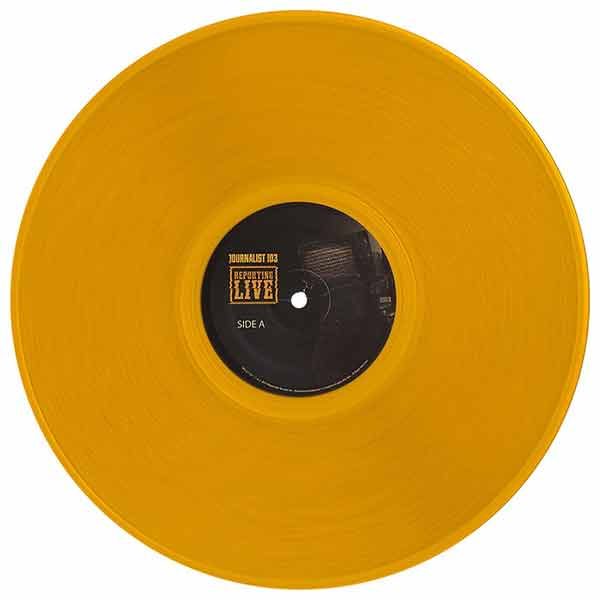
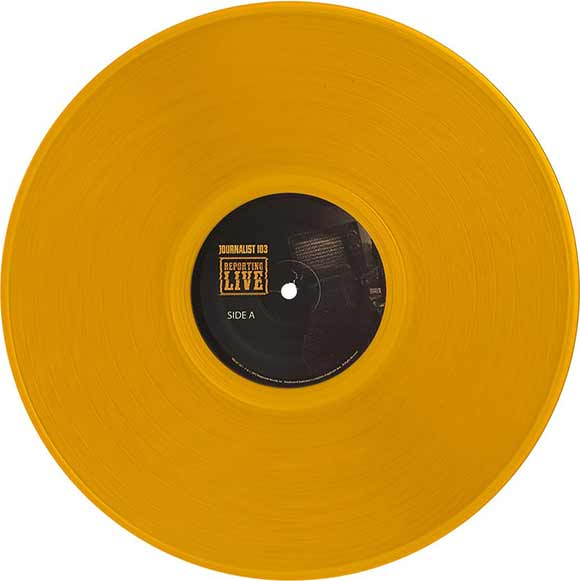
Add in new LP image

diff --git a/stylesheets/plylst.min.css b/stylesheets/plylst.min.css
@@ -1,1 +1,1 @@
-/*! normalize.css v2.1.3 | MIT License | git.io/normalize */article,aside,details,figcaption,figure,footer,header,hgroup,main,nav,section,summary{display:block}audio,canvas,video{display:inline-block}audio:not([controls]){display:none;height:0}[hidden],template{display:none}html{font-family:sans-serif;-ms-text-size-adjust:100%;-webkit-text-size-adjust:100%}body{margin:0}a{background:transparent}a:focus{outline:thin dotted}a:active,a:hover{outline:0}h1{font-size:2em;margin:.67em 0}abbr[title]{border-bottom:1px dotted}b,strong{font-weight:bold}dfn{font-style:italic}hr{-moz-box-sizing:content-box;box-sizing:content-box;height:0}mark{background:#ff0;color:#000}code,kbd,pre,samp{font-family:monospace,serif;font-size:1em}pre{white-space:pre-wrap}q{quotes:"\201C" "\201D" "\2018" "\2019"}small{font-size:80%}sub,sup{font-size:75%;line-height:0;position:relative;vertical-align:baseline}sup{top:-0.5em}sub{bottom:-0.25em}img{border:0}svg:not(:root){overflow:hidden}figure{margin:0}fieldset{border:1px solid silver;margin:0 2px;padding:.35em .625em .75em}legend{border:0;padding:0}button,input,select,textarea{font-family:inherit;font-size:100%;margin:0}button,input{line-height:normal}button,select{text-transform:none}button,html input[type="button"],input[type="reset"],input[type="submit"]{-webkit-appearance:button;cursor:pointer}button[disabled],html input[disabled]{cursor:default}input[type="checkbox"],input[type="radio"]{box-sizing:border-box;padding:0}input[type="search"]{-webkit-appearance:textfield;-moz-box-sizing:content-box;-webkit-box-sizing:content-box;box-sizing:content-box}input[type="search"]::-webkit-search-cancel-button,input[type="search"]::-webkit-search-decoration{-webkit-appearance:none}button::-moz-focus-inner,input::-moz-focus-inner{border:0;padding:0}textarea{overflow:auto;vertical-align:top}table{border-collapse:collapse;border-spacing:0}*{-webkit-box-sizing:border-box;-moz-box-sizing:border-box;box-sizing:border-box}.cf:before,.cf:after{content:" ";display:table}.cf:after,.clr{clear:both}html,body{color:#949d99;font:normal 100%/1.5 'proxima-nova-regular',sans-serif;height:auto;min-height:100%;width:100%}strong{font-family:'proxima-nova-semi',sans-serif;font-weight:normal}h1,h2,h3,p{font-weight:normal;margin:0 0 15px}h1,h2{line-height:1.2}strong{color:#040407}@font-face{font-family:'proxima-nova-semi';src:url("https://assets.tradesy.com/css/fonts/proxima-nova/semi/webfont.eot");src:url("https://assets.tradesy.com/css/fonts/proxima-nova/semi/webfont.eot?#iefix") format("embedded-opentype"),url("https://assets.tradesy.com/css/fonts/proxima-nova/semi/webfont.woff2") format("woff2"),url("https://assets.tradesy.com/css/fonts/proxima-nova/semi/webfont.woff") format("woff"),url("https://assets.tradesy.com/css/fonts/proxima-nova/semi/webfont.ttf") format("truetype"),url("https://assets.tradesy.com/css/fonts/proxima-nova/semi/webfont.svg#proxima-nova-semi") format("svg");font-weight:normal;font-style:normal}@font-face{font-family:'proxima-nova-regular';src:url("https://assets.tradesy.com/css/fonts/proxima-nova/regular/webfont.eot");src:url("https://assets.tradesy.com/css/fonts/proxima-nova/regular/webfont.eot?#iefix") format("embedded-opentype"),url("/css/fonts/proxima-nova/regular/webfont.woff2") format("woff2"),url("https://assets.tradesy.com/css/fonts/proxima-nova/regular/webfont.woff") format("woff"),url("https://assets.tradesy.com/css/fonts/proxima-nova/regular/webfont.ttf") format("truetype"),url("https://assets.tradesy.com/css/fonts/proxima-nova/regular/webfont.svg#proxima-nova-regular") format("svg");font-weight:normal;font-style:normal}header{background:#040407 url(../images/pattern.jpg) repeat-x;margin-bottom:2em;padding:2em;text-align:center}header img{display:block;margin:auto auto 1em;max-width:50px}h1{color:#fff;letter-spacing:2.5px;line-height:1;margin:0;text-transform:uppercase}.playlists{margin:1em auto 0;max-width:1100px;padding:0 2em 2em;text-align:center}.playlists span{color:#ee7873}.playlist{display:inline-block;padding:1em;position:relative;width:275px;margin-left:auto;margin-right:auto}.playlist>div,.playlist a{box-shadow:0 0 0 3px #040407;display:table;height:250px;width:100%}.playlist a{border:0;box-shadow:none;color:#040407;display:table-cell;overflow:hidden;padding:2em;position:relative;text-align:center;text-decoration:none;vertical-align:middle;z-index:3}.playlist:after{content:"";background:rgba(0,0,0,0.125);border-radius:100%;display:block;height:3px;margin:-.825em 7% 0;position:absolute;top:100%;left:0;width:86%;z-index:2}.playlist:before{content:"";background:url(../images/lp.png) no-repeat;background-size:contain;display:block;height:250px;position:absolute;bottom:12px;right:-5px;transition:right .15s ease-in-out;width:250px;z-index:1}.playlist h2{display:inline-block;line-height:1;margin:0;position:relative}.playlist a *{position:relative;z-index:2}.playlist a img{position:absolute;top:0;left:0;min-height:300px;z-index:3}.playlist p{color:#999;margin:1em 0 0}.playlist small{color:#ccc;position:absolute;bottom:1.5em;right:1.5em}.playlist:hover img{display:none}.playlist:hover{z-index:5}.playlist:hover a,.playlist.done a{background:#040407;color:#ee7873;transform:scale(1.1)}.playlist:hover:before{transform:scale(1.1);right:-40px}.playlist.done{opacity:0}.playlist .no-b{box-shadow:none}.playlist:active a{transform:scale(0.95)}.playlist:active:after,.playlist:active:before{display:none}.playlist:active>div{box-shadow:none}.playlist:hover h2:after{display:none}.playlist:hover p,.playlist:hover small,.playlist:hover strong{color:white}@media screen and (min-width:75em){.playlists{max-width:1200px;padding:0 0 2em}}@media screen and (max-width:20em){.playlist{width:100%}}
+/*! normalize.css v2.1.3 | MIT License | git.io/normalize */article,aside,details,figcaption,figure,footer,header,hgroup,main,nav,section,summary{display:block}audio,canvas,video{display:inline-block}audio:not([controls]){display:none;height:0}[hidden],template{display:none}html{font-family:sans-serif;-ms-text-size-adjust:100%;-webkit-text-size-adjust:100%}body{margin:0}a{background:transparent}a:focus{outline:thin dotted}a:active,a:hover{outline:0}h1{font-size:2em;margin:.67em 0}abbr[title]{border-bottom:1px dotted}b,strong{font-weight:bold}dfn{font-style:italic}hr{-moz-box-sizing:content-box;box-sizing:content-box;height:0}mark{background:#ff0;color:#000}code,kbd,pre,samp{font-family:monospace,serif;font-size:1em}pre{white-space:pre-wrap}q{quotes:"\201C" "\201D" "\2018" "\2019"}small{font-size:80%}sub,sup{font-size:75%;line-height:0;position:relative;vertical-align:baseline}sup{top:-0.5em}sub{bottom:-0.25em}img{border:0}svg:not(:root){overflow:hidden}figure{margin:0}fieldset{border:1px solid silver;margin:0 2px;padding:.35em .625em .75em}legend{border:0;padding:0}button,input,select,textarea{font-family:inherit;font-size:100%;margin:0}button,input{line-height:normal}button,select{text-transform:none}button,html input[type="button"],input[type="reset"],input[type="submit"]{-webkit-appearance:button;cursor:pointer}button[disabled],html input[disabled]{cursor:default}input[type="checkbox"],input[type="radio"]{box-sizing:border-box;padding:0}input[type="search"]{-webkit-appearance:textfield;-moz-box-sizing:content-box;-webkit-box-sizing:content-box;box-sizing:content-box}input[type="search"]::-webkit-search-cancel-button,input[type="search"]::-webkit-search-decoration{-webkit-appearance:none}button::-moz-focus-inner,input::-moz-focus-inner{border:0;padding:0}textarea{overflow:auto;vertical-align:top}table{border-collapse:collapse;border-spacing:0}*{-webkit-box-sizing:border-box;-moz-box-sizing:border-box;box-sizing:border-box}.cf:before,.cf:after{content:" ";display:table}.cf:after,.clr{clear:both}html,body{color:#949d99;font:normal 100%/1.5 'proxima-nova-regular',sans-serif;height:auto;min-height:100%;width:100%}strong{font-family:'proxima-nova-semi',sans-serif;font-weight:normal}h1,h2,h3,p{font-weight:normal;margin:0 0 15px}h1,h2{line-height:1.2}strong{color:#040407}@font-face{font-family:'proxima-nova-semi';src:url("https://assets.tradesy.com/css/fonts/proxima-nova/semi/webfont.eot");src:url("https://assets.tradesy.com/css/fonts/proxima-nova/semi/webfont.eot?#iefix") format("embedded-opentype"),url("https://assets.tradesy.com/css/fonts/proxima-nova/semi/webfont.woff2") format("woff2"),url("https://assets.tradesy.com/css/fonts/proxima-nova/semi/webfont.woff") format("woff"),url("https://assets.tradesy.com/css/fonts/proxima-nova/semi/webfont.ttf") format("truetype"),url("https://assets.tradesy.com/css/fonts/proxima-nova/semi/webfont.svg#proxima-nova-semi") format("svg");font-weight:normal;font-style:normal}@font-face{font-family:'proxima-nova-regular';src:url("https://assets.tradesy.com/css/fonts/proxima-nova/regular/webfont.eot");src:url("https://assets.tradesy.com/css/fonts/proxima-nova/regular/webfont.eot?#iefix") format("embedded-opentype"),url("/css/fonts/proxima-nova/regular/webfont.woff2") format("woff2"),url("https://assets.tradesy.com/css/fonts/proxima-nova/regular/webfont.woff") format("woff"),url("https://assets.tradesy.com/css/fonts/proxima-nova/regular/webfont.ttf") format("truetype"),url("https://assets.tradesy.com/css/fonts/proxima-nova/regular/webfont.svg#proxima-nova-regular") format("svg");font-weight:normal;font-style:normal}header{background:#040407 url(../images/pattern.jpg) repeat-x;margin-bottom:2em;padding:2em;text-align:center}header img{display:block;margin:auto auto 1em;max-width:50px}h1{color:#fff;letter-spacing:2.5px;line-height:1;margin:0;text-transform:uppercase}.playlists{margin:1em auto 0;max-width:1100px;padding:0 2em 2em;text-align:center}.playlists span{color:#ee7873}.playlist{display:inline-block;padding:1em;position:relative;width:275px;margin-left:auto;margin-right:auto}.playlist>div,.playlist a{box-shadow:0 0 0 3px #040407;display:table;height:250px;width:100%}.playlist a{border:0;box-shadow:none;color:#040407;display:table-cell;overflow:hidden;padding:2em;position:relative;text-align:center;text-decoration:none;vertical-align:middle;z-index:3}.playlist:after{content:"";background:rgba(0,0,0,0.125);border-radius:100%;display:block;height:3px;margin:-.825em 7% 0;position:absolute;top:100%;left:0;width:86%;z-index:2}.playlist:before{content:"";background:url(../images/lp.jpg) no-repeat;background-size:contain;border-radius:100%;display:block;height:230px;overflow:hidden;position:absolute;bottom:20px;right:-5px;transition:right .15s ease-in-out;width:230px;z-index:1}.playlist h2{display:inline-block;line-height:1;margin:0;position:relative}.playlist a *{position:relative;z-index:2}.playlist a img{position:absolute;top:0;left:0;min-height:300px;z-index:3}.playlist p{color:#999;margin:1em 0 0}.playlist small{color:#ccc;position:absolute;bottom:1.5em;right:1.5em}.playlist:hover img{display:none}.playlist:hover{z-index:5}.playlist:hover a,.playlist.done a{background:#040407;color:#ee7873;transform:scale(1.1)}.playlist:hover:before{transform:scale(1.1);right:-40px}.playlist.done{opacity:0}.playlist .no-b{box-shadow:none}.playlist:active a{transform:scale(0.95)}.playlist:active:after,.playlist:active:before{display:none}.playlist:active>div{box-shadow:none}.playlist:hover h2:after{display:none}.playlist:hover p,.playlist:hover small,.playlist:hover strong{color:white}@media screen and (min-width:75em){header{padding:4em 0}.playlists{max-width:1200px;padding:0 0 2em}}@media screen and (max-width:20em){.playlist{width:100%}}

diff --git a/stylesheets/plylst.css b/stylesheets/plylst.css
@@ -255,15 +255,17 @@ h1 {
 
 .playlist:before {
   content: "";
-  background: url(../images/lp.png) no-repeat;
+  background: url(../images/lp.jpg) no-repeat;
   background-size: contain;
+  border-radius: 100%;
   display: block;
-  height: 250px;
+  height: 230px;
+  overflow: hidden;
   position: absolute;
-  bottom: 12px;
+  bottom: 20px;
   right: -5px;
   transition: right .15s ease-in-out;
-  width: 250px;
+  width: 230px;
   z-index: 1; }
 
 .playlist h2 {
@@ -345,6 +347,9 @@ h1 {
 	color: #999;
 }*/
 @media screen and (min-width: 75em) {
+  header {
+    padding: 4em 0; }
+
   .playlists {
     max-width: 1200px;
     padding: 0 0 2em; } }

diff --git a/stylesheets/sass/lists.scss b/stylesheets/sass/lists.scss
@@ -51,15 +51,17 @@
 }
 .playlist:before {
 	content: "";
-	background: url(../images/lp.png) no-repeat;
+	background: url(../images/lp.jpg) no-repeat;
 	background-size: contain;
+	border-radius: 100%;
 	display: block;
-	height: 250px;
+	height: 230px;
+	overflow: hidden;
 	position: absolute;
-	bottom: 12px;
+	bottom: 20px;
 	right: -5px;
 	transition: right .15s ease-in-out;
-	width: 250px;
+	width: 230px;
 	z-index: 1;
 }
 .playlist h2 {

diff --git a/stylesheets/sass/media.scss b/stylesheets/sass/media.scss
@@ -3,6 +3,9 @@
 // body {
 // 	padding: 2em;
 // }
+header {
+	padding: 4em 0;
+}
 .playlists {
 	max-width: 1200px;
 	padding: 0 0 2em;
